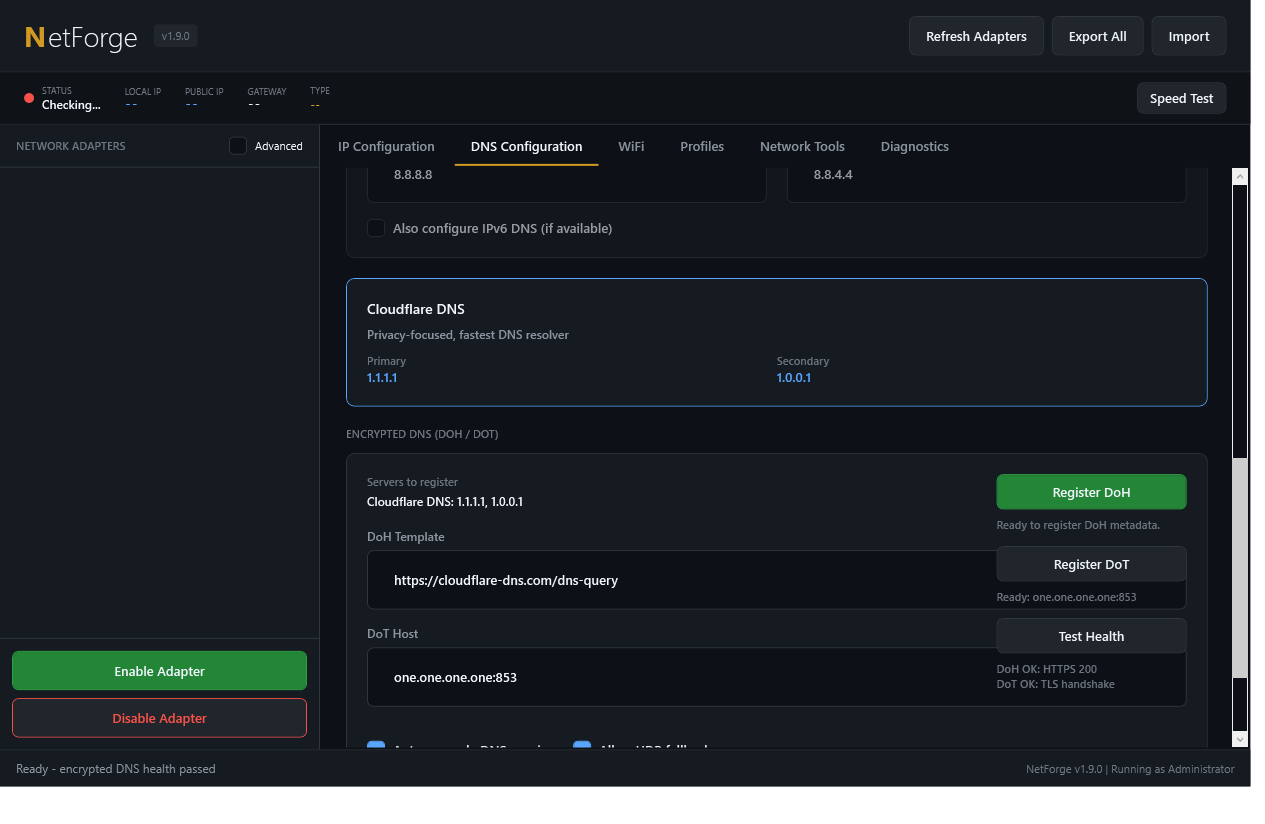
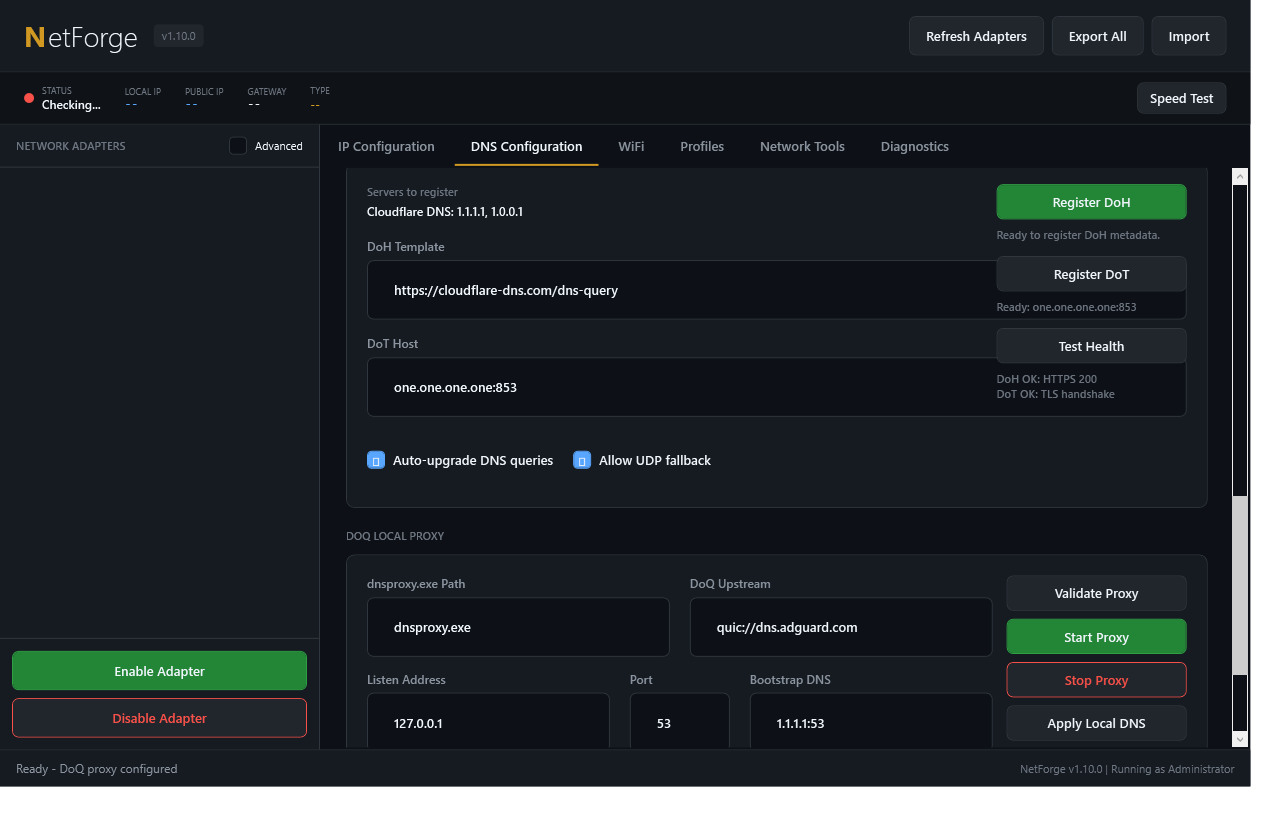
feat: add DoQ proxy controls

diff --git a/README.md b/README.md
@@ -6,7 +6,7 @@
   <img src="https://img.shields.io/badge/Platform-Windows-0078D6?style=for-the-badge&logo=windows" alt="Windows"/>
   <img src="https://img.shields.io/badge/PowerShell-5.1+-5391FE?style=for-the-badge&logo=powershell&logoColor=white" alt="PowerShell"/>
   <img src="https://img.shields.io/badge/License-MIT-green?style=for-the-badge" alt="License"/>
-  <img src="https://img.shields.io/badge/Version-1.9.0-orange?style=for-the-badge" alt="Version"/>
+  <img src="https://img.shields.io/badge/Version-1.10.0-orange?style=for-the-badge" alt="Version"/>
 </p>
 
 <p align="center">
@@ -69,6 +69,7 @@
 - Preset DoH templates and DoT hosts for Google, Cloudflare, Quad9, and AdGuard
 - Custom DoH template and DoT host entry for account-specific providers
 - Encrypted DNS health test with DoH HTTPS and DoT TCP/TLS DNS-message probes
+- DoQ local proxy controls for compatible `dnsproxy.exe` binaries
 - Search and filter DNS presets
 
 ### Profile System
@@ -121,6 +122,7 @@
 - **PowerShell**: Version 5.1 or higher
 - **Privileges**: Administrator rights required
 - **.NET Framework**: 4.5 or higher (included in Windows 10/11)
+- **Optional DoQ Proxy**: AdGuard `dnsproxy.exe` or compatible local DNS proxy for DNS-over-QUIC forwarding
 
 ---
 
@@ -165,6 +167,7 @@ irm https://raw.githubusercontent.com/SysAdminDoc/NetForge/main/NetForge.ps1 -Ou
    - Click "Apply DNS Configuration"
    - Click "Register DoH" or "Register DoT" to add Windows encrypted DNS metadata for compatible resolvers
    - Click "Test Health" to validate encrypted DNS handshakes and DNS-message responses
+   - Configure the DoQ local proxy path/upstream and click "Start Proxy" when using DNS-over-QUIC
 4. **Save as Profile** (optional):
    - Go to Profiles tab
    - Click "Create New Profile"
